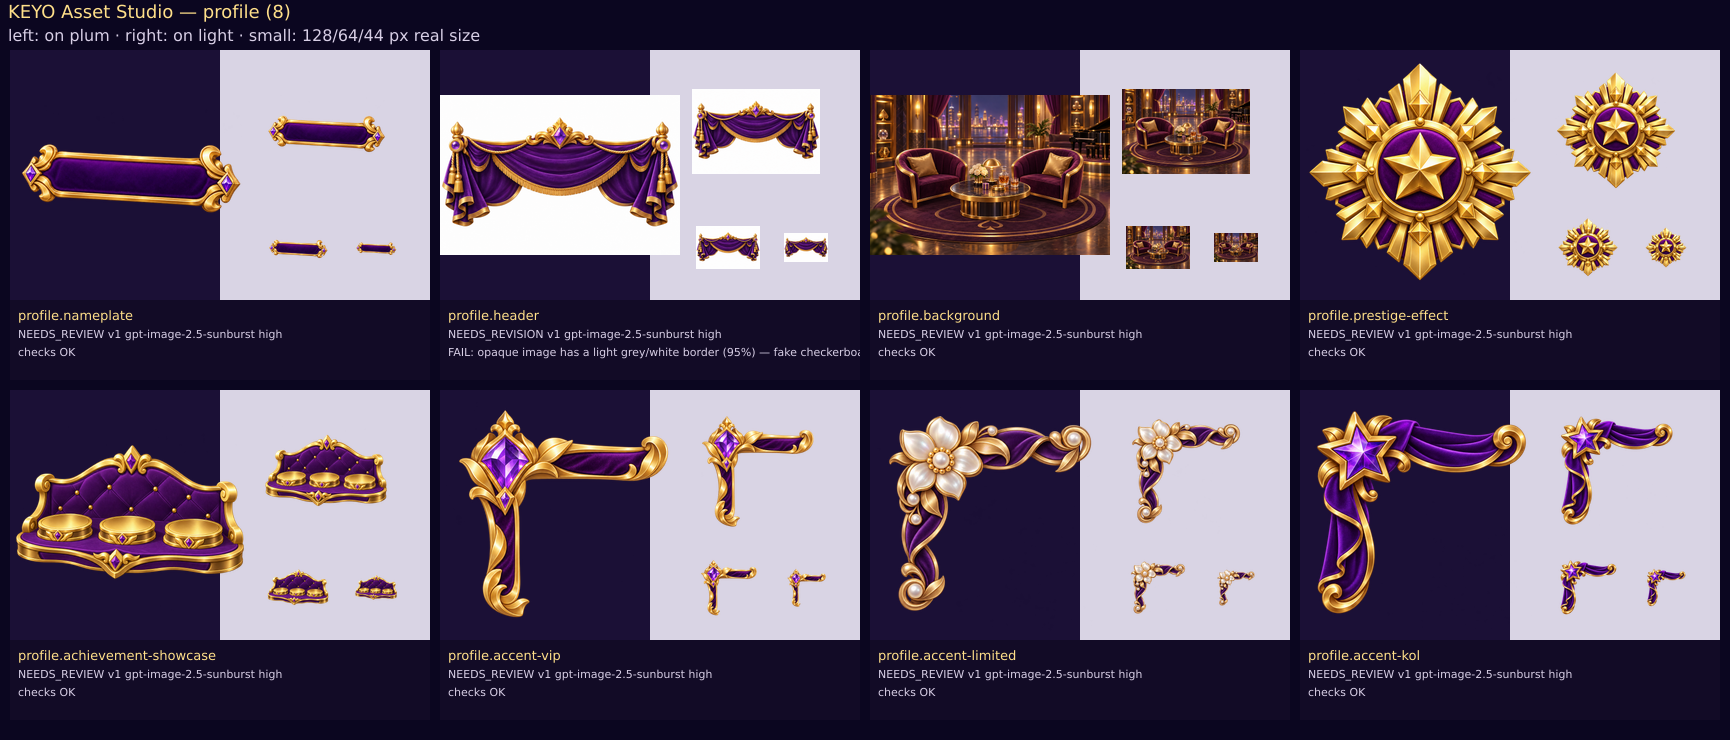
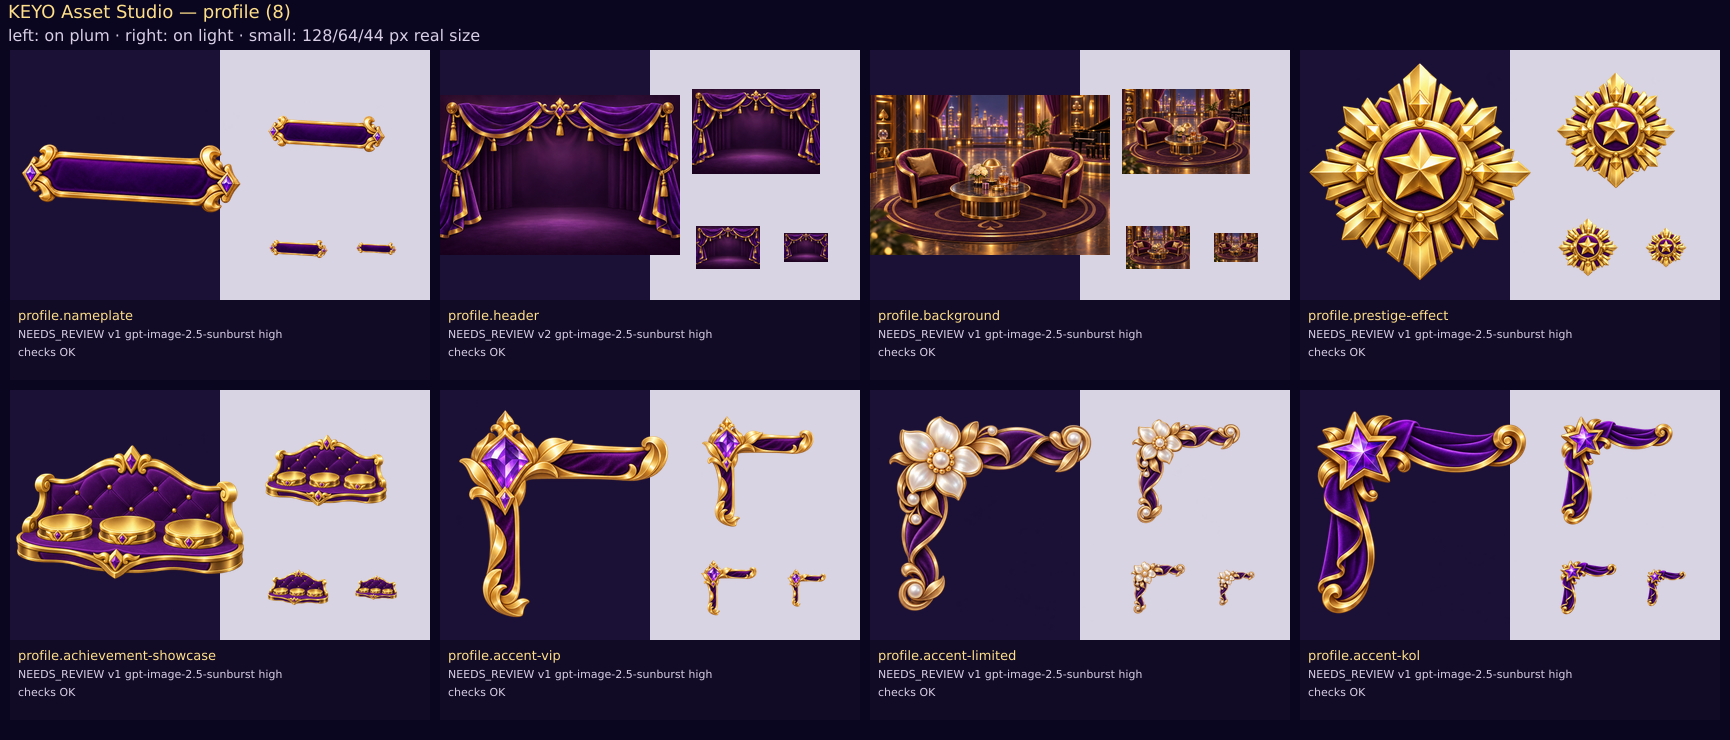
chore(asset-studio): checkpoint — 2026-11-07-lib-00-revisions done

Changed region(s): [[0.2497, 0.0932, 0.4994, 0.373], [0.2497, 0.4351, 0.4994, 0.4973]]

diff --git a/docs/asset-studio/BUDGET.md b/docs/asset-studio/BUDGET.md
@@ -1,10 +1,10 @@
 # Budget Tracking (generated)
 
 - Ngân sách đã duyệt: **$20**
-- Đã tính vào ngân sách: **$10.1840** (chi phí thật từ token usage khi API trả về; nếu không có thì tính theo ước tính trần)
-- Chi phí thật theo token usage × bảng giá đã xác minh: $10.1840; tổng ước tính trần: $23.65
-- Còn lại theo bộ đếm nội bộ: **$9.82**
-- Ảnh đã tạo: 190; yêu cầu đã chạy: 2026-11-06-01-probe-dry-run, 2026-11-06-02-sample-1-generate, 2026-11-07-01-sample-1-revisions, 2026-11-07-lib-01-1-games-1, 2026-11-07-lib-02-1-games-2, 2026-11-07-lib-03-1-games-3, 2026-11-07-lib-04-1-games-4, 2026-11-07-lib-05-2-vip, 2026-11-07-lib-06-3-frames-profile-1, 2026-11-07-lib-07-3-frames-profile-2, 2026-11-07-lib-08-3-frames-profile-3, 2026-11-07-lib-09-4-collectibles-1, 2026-11-07-lib-10-4-collectibles-2, 2026-11-07-lib-11-5-bank-chests, 2026-11-07-lib-12-6-events-tournament-achievements-1, 2026-11-07-lib-13-6-events-tournament-achievements-2
+- Đã tính vào ngân sách: **$10.2276** (chi phí thật từ token usage khi API trả về; nếu không có thì tính theo ước tính trần)
+- Chi phí thật theo token usage × bảng giá đã xác minh: $10.2276; tổng ước tính trần: $23.75
+- Còn lại theo bộ đếm nội bộ: **$9.77**
+- Ảnh đã tạo: 191; yêu cầu đã chạy: 2026-11-06-01-probe-dry-run, 2026-11-06-02-sample-1-generate, 2026-11-07-01-sample-1-revisions, 2026-11-07-lib-01-1-games-1, 2026-11-07-lib-02-1-games-2, 2026-11-07-lib-03-1-games-3, 2026-11-07-lib-04-1-games-4, 2026-11-07-lib-05-2-vip, 2026-11-07-lib-06-3-frames-profile-1, 2026-11-07-lib-07-3-frames-profile-2, 2026-11-07-lib-08-3-frames-profile-3, 2026-11-07-lib-09-4-collectibles-1, 2026-11-07-lib-10-4-collectibles-2, 2026-11-07-lib-11-5-bank-chests, 2026-11-07-lib-12-6-events-tournament-achievements-1, 2026-11-07-lib-13-6-events-tournament-achievements-2, 2026-11-07-lib-00-revisions
 
 > Bộ đếm nội bộ không thay thế giới hạn chi tiêu của OpenAI Platform. Số thực tế xem tại OpenAI dashboard → Usage.
 
@@ -200,10 +200,11 @@
 | 2026-11-07T02:55:45.497Z | 2026-11-07-lib-00-revisions | frame.tournament.grand-champion | gpt-image-2.5-sunburst | high | 1024x1024 | yes | $0.10 | in 532 / out 1756 |
 | 2026-11-07T02:56:15.750Z | 2026-11-07-lib-00-revisions | frame.tournament.seasonal-champion | gpt-image-2.5-sunburst | high | 1024x1024 | yes | $0.10 | in 530 / out 1756 |
 | 2026-11-07T02:56:40.188Z | 2026-11-07-lib-00-revisions | game.blackjack.table-felt | gpt-image-2.5-sunburst | high | 1536x1024 | yes | $0.10 | in 523 / out 1372 |
+| 2026-11-07T02:57:16.678Z | 2026-11-07-lib-00-revisions | profile.header | gpt-image-2.5-sunburst | high | 1536x1024 | yes | $0.10 | in 485 / out 1372 |
 
 ## Dự toán phần còn lại
 
 - 88 asset ở trạng thái PLANNED.
-- Theo chi phí thật đã đo (1024x1024: $0.0550, 1536x1024: $0.0434, 1024x1536: $0.0436): **$4.45**; cộng 30% dự phòng làm lại: **$5.78**.
-- Còn lại trong ngân sách đã duyệt: $9.82 → **cần nạp thêm khoảng $0.00** để hoàn thiện toàn bộ (gồm dự phòng); không dự phòng: $0.00.
+- Theo chi phí thật đã đo (1024x1024: $0.0550, 1536x1024: $0.0435, 1024x1536: $0.0436): **$4.45**; cộng 30% dự phòng làm lại: **$5.78**.
+- Còn lại trong ngân sách đã duyệt: $9.77 → **cần nạp thêm khoảng $0.00** để hoàn thiện toàn bộ (gồm dự phòng); không dự phòng: $0.00.
 - Ước tính trần dùng để chặn chi tiêu (pricing.json): $8.80.

diff --git a/docs/asset-studio/MANIFEST.md b/docs/asset-studio/MANIFEST.md
@@ -8,9 +8,8 @@ Nguồn dữ liệu: `assets/studio/manifest.json` (sinh từ `tools/asset-studi
 |---|---|
 | EXISTING_APPROVED | 9 |
 | USER_APPROVED | 18 |
-| NEEDS_REVIEW | 163 |
+| NEEDS_REVIEW | 164 |
 | PLANNED | 88 |
-| NEEDS_REVISION | 1 |
 
 ## Theo nhóm
 
@@ -230,7 +229,7 @@ Nguồn dữ liệu: `assets/studio/manifest.json` (sinh từ `tools/asset-studi
 | ID | Tên | Hệ thống | Kích thước | Alpha | Ưu tiên | Batch | Trạng thái | Ước tính (USD) |
 |---|---|---|---|---|---|---|---|---|
 | profile.nameplate | Profile nameplate | Profile | 1024x1024 | yes | P2 |  | NEEDS_REVIEW | 0.10 |
-| profile.header | Profile header | Profile | 1536x1024 | no | P2 |  | NEEDS_REVISION | 0.10 |
+| profile.header | Profile header | Profile | 1536x1024 | no | P2 |  | NEEDS_REVIEW | 0.10 |
 | profile.background | Profile background | Profile | 1536x1024 | no | P2 |  | NEEDS_REVIEW | 0.10 |
 | profile.prestige-effect | Profile prestige-effect | Profile | 1024x1024 | yes | P2 |  | NEEDS_REVIEW | 0.10 |
 | profile.achievement-showcase | Profile achievement-showcase | Profile | 1024x1024 | yes | P2 |  | NEEDS_REVIEW | 0.10 |

diff --git a/docs/asset-studio/QUALITY.md b/docs/asset-studio/QUALITY.md
@@ -117,7 +117,7 @@ Kiểm tra kỹ thuật tự động (file, kích thước, alpha thật, viền
 | avatar.fantasy-dealer | NEEDS_REVIEW | OK |  |  | 0.696 | 0.001 | 739.6 | 116 KB |
 | bubble.gold | USER_APPROVED | OK |  |  | 0.441 | 0.001 | 478.1 | 39 KB |
 | profile.nameplate | NEEDS_REVIEW | OK |  |  | 0.173 | 0 | 361.3 | 64 KB |
-| profile.header | NEEDS_REVISION | FAIL | opaque image has a light grey/white border (95%) — fake checkerboard or blank backdrop |  | 1 | 1 | 1024.8 | 82 KB |
+| profile.header | NEEDS_REVIEW | OK |  |  | 1 | 1 | 965.6 | 89 KB |
 | profile.background | NEEDS_REVIEW | OK |  |  | 1 | 1 | 1176.9 | 132 KB |
 | profile.prestige-effect | NEEDS_REVIEW | OK |  |  | 0.476 | 0 | 1147.3 | 181 KB |
 | profile.achievement-showcase | NEEDS_REVIEW | OK |  |  | 0.369 | 0.004 | 709.5 | 113 KB |
